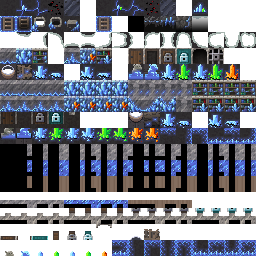
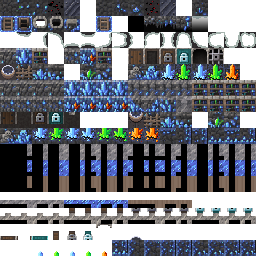
수정 광맥: GPT가 다듬은 타일 적용, 수정이 몰린 곳에서 번지는 배치
- 벽·바닥·가장자리 번짐·시설·덤불·석상·방책을 GPT 시트로 교체 (수정 기둥은 원작 퀘스트 수정)
- 수정맥은 몇 군데에 1~3칸씩 몰려 생김, 옆면 수정맥은 드물게
- 바위 벽은 수정맥 2칸 안이면 침식된 벽, 멀면 원작 바위
- 바닥 드문 수정 변형은 수정 근처에서만, 수정 새싹·돋아난 수정·수정 덤불도 수정맥·기둥에서 멀어질수록 드물게
- 수정 새싹은 파랑 위주, 입구·출구는 수정빛 테두리

Claude-Session: https://claude.ai/code/session_01APSKFNB8xpLfNtbCfNBsyA

diff --git a/core/src/main/java/com/shatteredpixel/shatteredpixeldungeon/levels/painters/CrystalVeinPainter.java b/core/src/main/java/com/shatteredpixel/shatteredpixeldungeon/levels/painters/CrystalVeinPainter.java
@@ -30,19 +30,31 @@ public class CrystalVeinPainter extends CavesPainter {
 		int l = level.length();
 		int[] map = level.map;
 
-		//바닥을 마주한 벽은 셋 중 하나가 수정맥 (원작 금맥은 넷 중 하나)
-		for (int i = 0; i < l - w; i++) {
-			if (map[i] == Terrain.WALL && DungeonTileSheet.floorTile(map[i + w]) && Random.Int(3) == 0) {
+		//수정맥은 흩뿌리지 않고 몇 군데에 몰려 있음: 바닥을 마주한 벽 중 몇 곳에서 시작해 가로로 1~3칸 이어짐
+		for (int i = w; i < l - w; i++) {
+			if (map[i] == Terrain.WALL && DungeonTileSheet.floorTile(map[i + w]) && Random.Int(9) == 0) {
 				map[i] = Terrain.WALL_DECO;
+				int x = i % w;
+				int left = Random.Int(3), right = Random.Int(3);
+				for (int k = 1; k <= left && x - k > 0; k++) {
+					int c = i - k;
+					if (map[c] != Terrain.WALL || !DungeonTileSheet.floorTile(map[c + w])) break;
+					map[c] = Terrain.WALL_DECO;
+				}
+				for (int k = 1; k <= right && x + k < w - 1; k++) {
+					int c = i + k;
+					if (map[c] != Terrain.WALL || !DungeonTileSheet.floorTile(map[c + w])) break;
+					map[c] = Terrain.WALL_DECO;
+				}
 			}
 		}
 
-		//옆으로 바닥을 마주한 벽에도 수정맥이 지나감 (위에서 보면 벽 테두리가 수정)
+		//옆으로 바닥을 마주한 벽에도 가끔 수정맥이 지나감
 		for (int i = w; i < l - w; i++) {
 			int x = i % w;
 			if (map[i] == Terrain.WALL && x > 0 && x < w - 1
 					&& (DungeonTileSheet.floorTile(map[i - 1]) || DungeonTileSheet.floorTile(map[i + 1]))
-					&& Random.Int(5) == 0) {
+					&& Random.Int(12) == 0) {
 				map[i] = Terrain.WALL_DECO;
 			}
 		}
@@ -75,6 +87,44 @@ public class CrystalVeinPainter extends CavesPainter {
 			}
 		}
 
-		//수정맥·수정 기둥 둘레 바닥의 수정 번짐은 지형을 바꾸지 않고 그림(바닥 가장자리 번짐)으로 표현
+		//수정맥·수정 기둥 둘레에서 멀어질수록 옅어지게: 가까운 바닥엔 수정 새싹·돋아난 수정·수정 덤불
+		//  (일반 방과 통로만, 특수 방은 건드리지 않음)
+		int[] dist = new int[l];
+		java.util.Arrays.fill(dist, 99);
+		for (int i = 0; i < l; i++) {
+			int t = map[i];
+			if (t == Terrain.WALL_DECO || t == Terrain.REGION_DECO || t == Terrain.REGION_DECO_ALT) dist[i] = 0;
+		}
+		for (int pass = 1; pass <= 3; pass++) {
+			for (int i = w + 1; i < l - w - 1; i++) {
+				if (dist[i] != 99) continue;
+				for (int n : new int[]{-w - 1, -w, -w + 1, -1, 1, w - 1, w, w + 1}) {
+					if (dist[i + n] == pass - 1) { dist[i] = pass; break; }
+				}
+			}
+		}
+		for (Room room : rooms) {
+			if (!(room instanceof StandardRoom) && !(room instanceof com.shatteredpixel.shatteredpixeldungeon.levels.rooms.connection.ConnectionRoom)) continue;
+			if (room instanceof BlacksmithRoom) continue;
+			for (int y = room.top + 1; y < room.bottom; y++) {
+				for (int x = room.left + 1; x < room.right; x++) {
+					int i = x + y * w;
+					if (map[i] != Terrain.EMPTY || level.traps.get(i) != null) continue;
+					switch (dist[i]) {
+						case 1:
+							if (Random.Int(10) < 3) map[i] = Terrain.GRASS;
+							else if (Random.Int(10) < 2) map[i] = Terrain.EMPTY_DECO;
+							break;
+						case 2:
+							if (Random.Int(10) < 2) map[i] = Terrain.GRASS;
+							else if (Random.Int(12) == 0) map[i] = Terrain.HIGH_GRASS;
+							break;
+						case 3:
+							if (Random.Int(10) == 0) map[i] = Terrain.GRASS;
+							break;
+					}
+				}
+			}
+		}
 	}
 }

diff --git a/core/src/main/java/com/shatteredpixel/shatteredpixeldungeon/levels/CrystalVeinLevel.java b/core/src/main/java/com/shatteredpixel/shatteredpixeldungeon/levels/CrystalVeinLevel.java
@@ -38,7 +38,7 @@ public class CrystalVeinLevel extends CavesLevel {
 	protected Painter painter() {
 		return new CrystalVeinPainter()
 				.setWater(feeling == Feeling.WATER ? 0.85f : 0.30f, 6)
-				.setGrass(feeling == Feeling.GRASS ? 0.65f : 0.15f, 3)
+				.setGrass(feeling == Feeling.GRASS ? 0.40f : 0.05f, 3)
 				.setTraps(nTraps(), trapClasses(), trapChances());
 	}
 
@@ -72,6 +72,28 @@ public class CrystalVeinLevel extends CavesLevel {
 	private static boolean plainWall( int t ){
 		return t == Terrain.WALL || t == Terrain.SECRET_DOOR;
 	}
+	//가로로 가장 가까운 수정맥 벽까지 거리 (같은 줄, 4칸까지)
+	public static int veinDistance( int pos, int[] map, int w ){
+		int x = pos % w;
+		for (int d = 1; d <= 4; d++){
+			if (x - d >= 0 && map[pos - d] == Terrain.WALL_DECO) return d;
+			if (x + d < w && map[pos + d] == Terrain.WALL_DECO) return d;
+		}
+		return 99;
+	}
+	//수정이 번져 나오는 칸이 둘레 2칸 안에 있는지
+	public static boolean nearCrystal( int pos, int[] map, int w ){
+		int x = pos % w, y = pos / w, h = map.length / w;
+		for (int dy = -2; dy <= 2; dy++){
+			for (int dx = -2; dx <= 2; dx++){
+				int xx = x + dx, yy = y + dy;
+				if (xx < 0 || yy < 0 || xx >= w || yy >= h) continue;
+				if (crystalSource(map[xx + yy * w])) return true;
+			}
+		}
+		return false;
+	}
+
 	//위 1 · 오른쪽 2 · 아래 4 · 왼쪽 8 → 시트의 빈 칸 15개
 	private static final int[] FRINGE = {-1, 138, 139, 140, 141, 142, 143, 247, 248, 249, 250, 251, 252, 253, 254, 255};
 	public static int floorFringe( int pos, int[] map, int w ){
@@ -90,7 +112,13 @@ public class CrystalVeinLevel extends CavesLevel {
 		if (x < w - 1 && crystalSource(map[pos + 1])) b |= 2;
 		if (pos + w < size && crystalSource(map[pos + w])) b |= 4;
 		if (x > 0 && crystalSource(map[pos - 1])) b |= 8;
-		return FRINGE[b];
+		if (b != 0) return FRINGE[b];
+		//수정에서 먼 바닥은 원작 광산 바닥 그대로(드문 수정 변형을 쓰지 않음), 가까우면 드문 변형이 더 자주
+		int v = DungeonTileSheet.tileVariance == null ? 99 : DungeonTileSheet.tileVariance[pos];
+		if (nearCrystal(pos, map, w)) {
+			return v < 25 ? DungeonTileSheet.FLOOR_ALT_2 : (v < 62 ? DungeonTileSheet.FLOOR_ALT_1 : DungeonTileSheet.FLOOR);
+		}
+		return v < 50 ? DungeonTileSheet.FLOOR_ALT_1 : DungeonTileSheet.FLOOR;
 	}
 
 	@Override

diff --git a/core/src/main/java/com/shatteredpixel/shatteredpixeldungeon/tiles/DungeonTileSheet.java b/core/src/main/java/com/shatteredpixel/shatteredpixeldungeon/tiles/DungeonTileSheet.java
@@ -270,6 +270,13 @@ public class DungeonTileSheet {
 			if (left == Terrain.WALL_DECO && right == Terrain.WALL_DECO) return RAISED_WALL_VEIN_SEAM_BOTH;
 			return left == Terrain.WALL_DECO ? RAISED_WALL_VEIN_SEAM_LEFT : RAISED_WALL_VEIN_SEAM_RIGHT;
 		}
+		else if ((tile == Terrain.WALL || tile == Terrain.SECRET_DOOR) && CrystalVeinLevel.isVein()){
+			//모드: 수정 광맥의 바위 벽은 수정맥에 가까울수록(2칸 안) 침식된 벽, 멀면 원작 바위 그대로
+			result = CrystalVeinLevel.veinDistance(pos, Dungeon.level.map, Dungeon.level.width()) <= 2 ? RAISED_WALL_ALT : RAISED_WALL;
+			if (!wallStitcheable(right)) result += 1;
+			if (!wallStitcheable(left))  result += 2;
+			return result;
+		}
 		else if (tile == Terrain.WALL || tile == Terrain.SECRET_DOOR)   result = RAISED_WALL;
 		else if (tile == Terrain.WALL_DECO)                             result = RAISED_WALL_DECO;
 		else if (tile == Terrain.BOOKSHELF)                             result = RAISED_WALL_BOOKSHELF;
